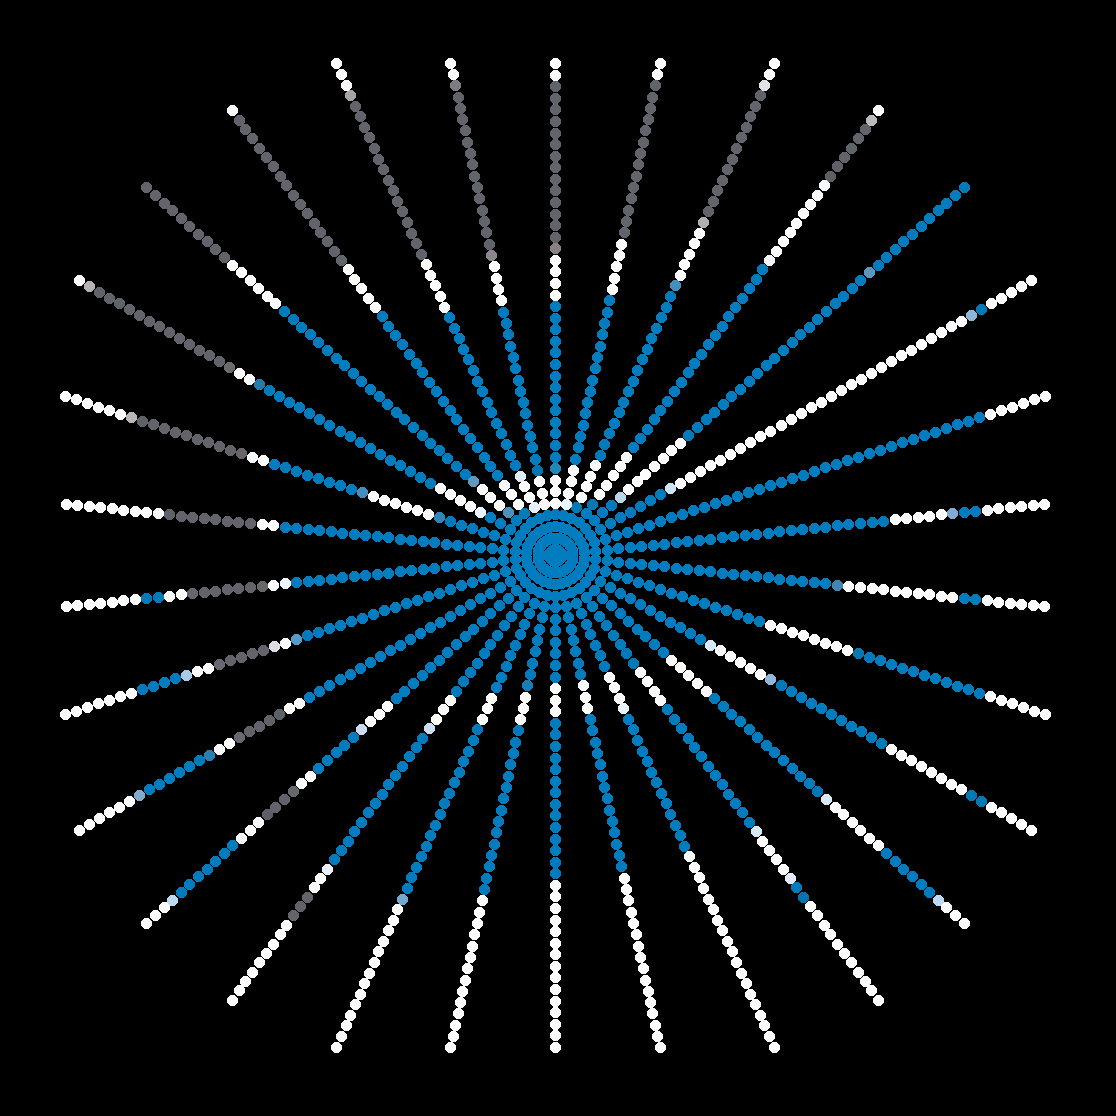
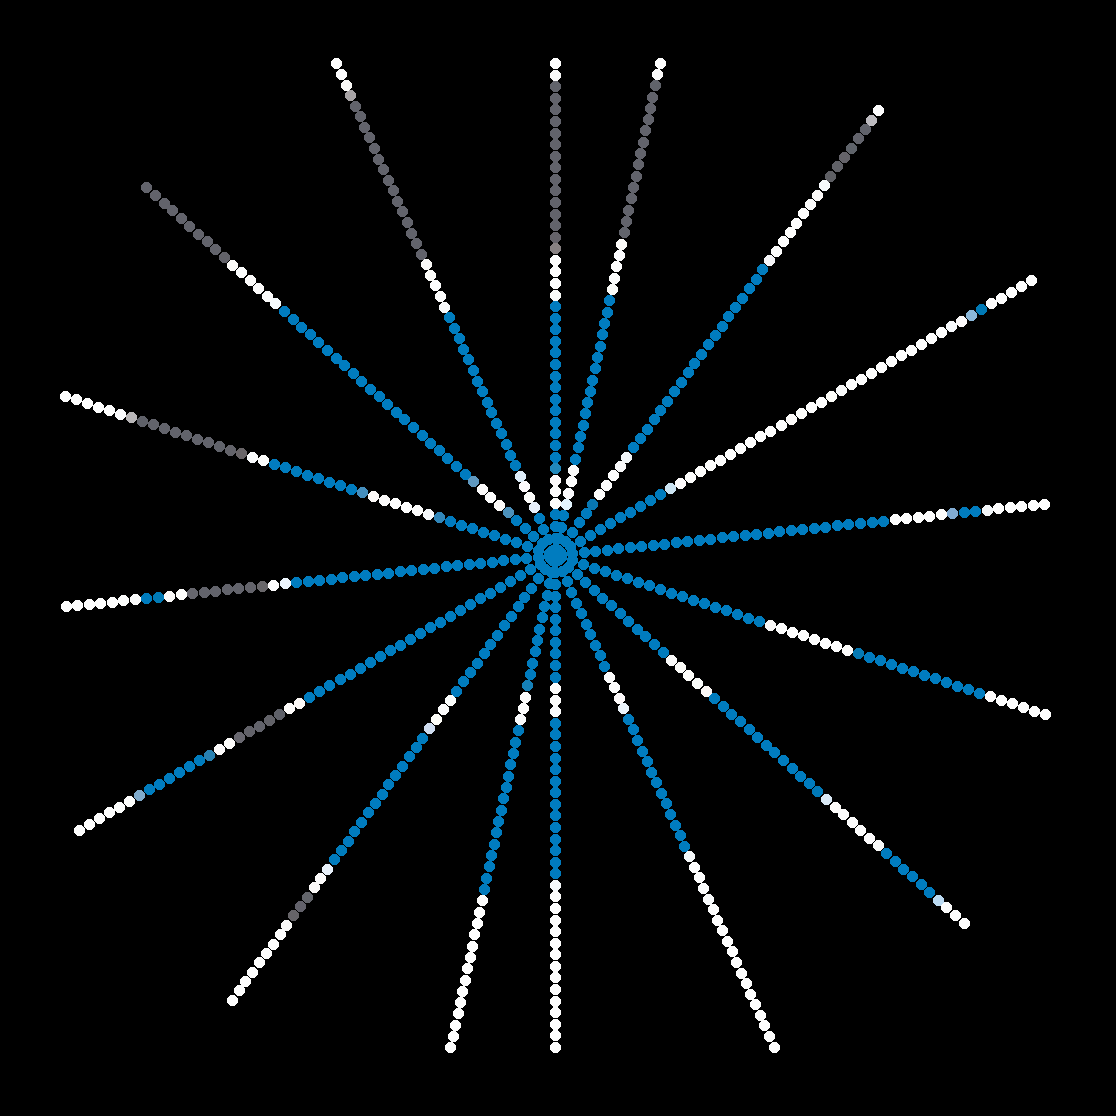
test

diff --git a/POVSimulator/colorpicker.py b/POVSimulator/colorpicker.py
@@ -70,6 +70,8 @@ def computePickingPointsPositionsOnDiametralLine(pickingAreaDiameter, nbPoints, 
     pointsPositions.append(((angle, -radialIndex),(pickingAreaDiameter/2-radial*sin(angle), pickingAreaDiameter/2-radial*cos(angle))))
   return pointsPositions
 
+#def addTrailArcs
+
 def getPickingPoints(pickingAreaDiameter, nbPointsPerLine, angleStep, angleMin = 0, angleMax = 180):
   """Builds 
 
@@ -95,7 +97,7 @@ def getPickingPoints(pickingAreaDiameter, nbPointsPerLine, angleStep, angleMin =
 nbEllipsesPerDiametralLine = 2*48
 imageFileName = 'logo_utbm.png'
 outputFileName = 'result_picking.png'
-angleStep = 12
+angleStep = 13
 zoomFactor = 90 #zoom factor in percent
 
 if __name__ == "__main__":

diff --git a/main/libapa102/examples/blinkanim.c b/main/libapa102/examples/blinkanim.c
@@ -7,8 +7,8 @@
 
 int main() {
   //Initialize strip
-  struct APA102* strip = APA102_Init(48,0);
-  struct APA102* strip2 = APA102_Init(48,1);
+  struct APA102* strip = APA102_Init(20,0);
+  struct APA102* strip2 = APA102_Init(20,1);
 
   //Run animation
   struct APA102_Animation* anim = APA102_BlinkAnimation(strip, strip2, APA102_CreateFrame(31, 0xFF, 0x0, 0x0), 50, 115);
